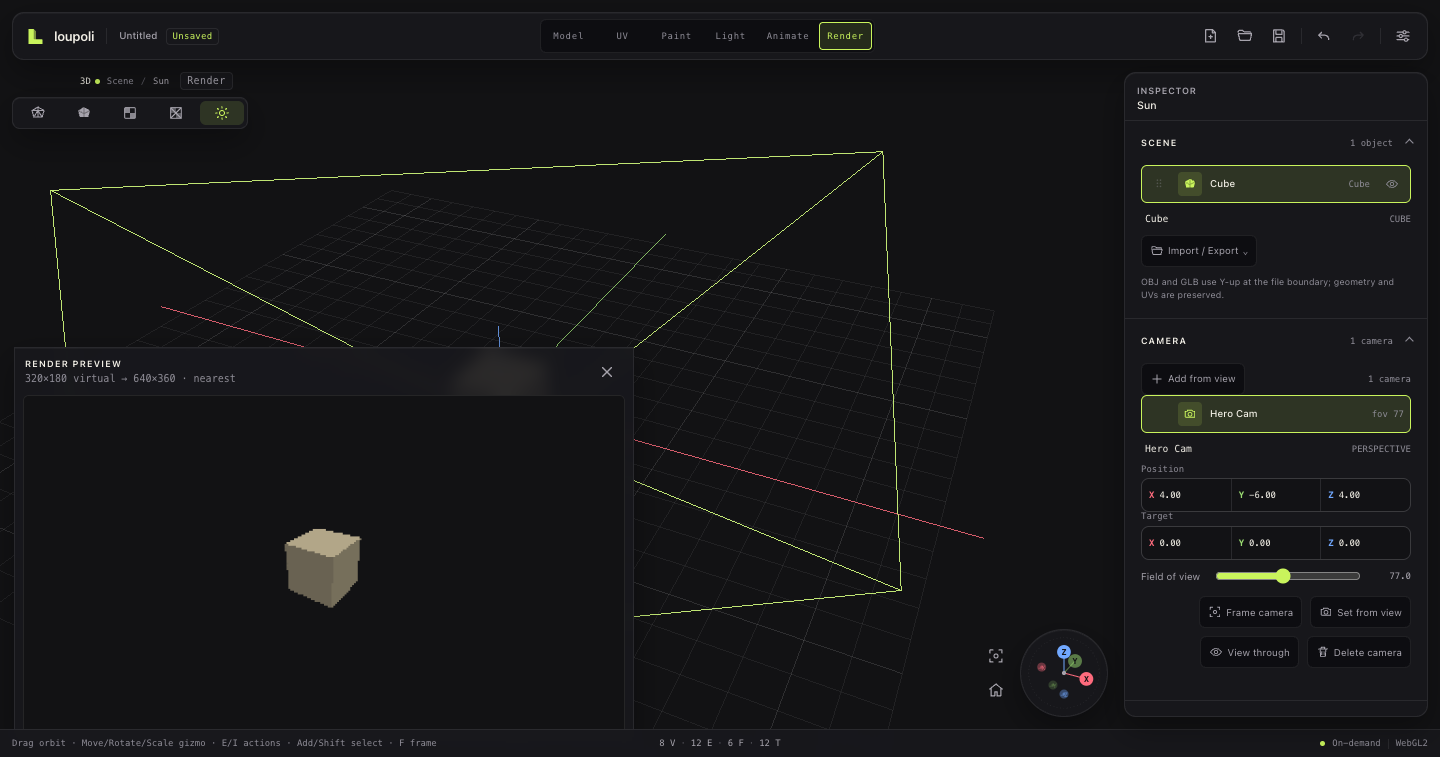
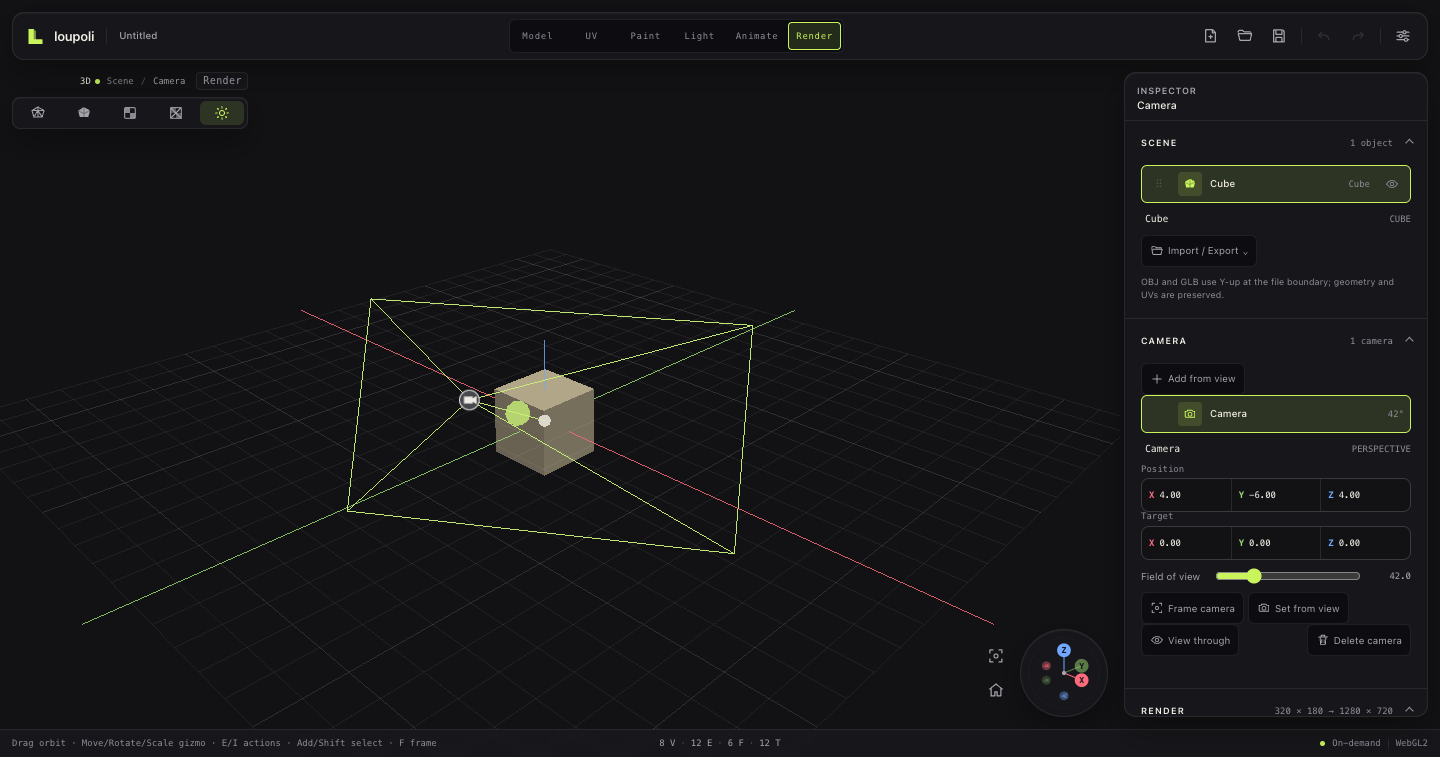
Polish camera and render inspector layout
Uses shared action rows with end alignment, groups camera navigation separately from destructive actions, removes duplicated camera/render metadata, and refreshes the camera/render documentation and screenshot.

diff --git a/src/lib/ui/Panels/Inspector.svelte b/src/lib/ui/Panels/Inspector.svelte
@@ -92,10 +92,6 @@
     if (videoMimeFor('mp4')) options.push({ value: 'mp4', label: 'MP4 video' });
     return options;
   });
-  const renderKindLabel = $derived(
-    renderKindOptions.find((option) => option.value === session.snapshot.renderKind)?.label ??
-      'Still PNG'
-  );
   const shapeKeys = $derived(session.snapshot.shapeKeys);
   const shapeEditingId = $derived(session.snapshot.shapeEditingId);
   const editingShapeName = $derived(
@@ -847,13 +843,12 @@
       onToggle={(open) => setSection('camera', open)}
     >
       <div class="module-body">
-        <ActionRow align="between">
+        <ActionRow>
           <ActionButton
             label="Add from view"
             icon="plus"
             onActivate={() => session.addCameraFromCurrentView()}
           />
-          <span class="texture-note">{cameras.length} {cameras.length === 1 ? 'camera' : 'cameras'}</span>
         </ActionRow>
         <div class="object-list">
           {#each cameras as camera (camera.id)}
@@ -872,7 +867,7 @@
                 <Icon name="camera" size={14} />
               </span>
               <span class="object-name">{camera.name}</span>
-              <span class="object-kind">fov {camera.fov.toFixed(0)}</span>
+              <span class="object-kind">{camera.fov.toFixed(0)}°</span>
             </OutlinerRow>
           {/each}
         </div>
@@ -922,6 +917,8 @@
               icon="camera"
               onActivate={() => session.setActiveCameraFromView()}
             />
+          </ActionRow>
+          <ActionRow align="between">
             <ActionButton
               label={session.snapshot.renderCameraView ? 'Exit view' : 'View through'}
               icon="eye"
@@ -948,10 +945,6 @@
       onToggle={(open) => setSection('render', open)}
     >
       <div class="module-body">
-        <div class="light-subhead">
-          <span>{renderKindLabel}</span>
-          <span class="texture-note">{session.snapshot.renderKind === 'still' ? 'PNG' : session.snapshot.renderKind.toUpperCase()}</span>
-        </div>
         <SelectField
           label="Output kind"
           value={session.snapshot.renderKind}
@@ -1082,7 +1075,7 @@
         {:else}
           <p class="texture-note">Add a camera from the Camera section before rendering.</p>
         {/if}
-        <div class="texture-action-row">
+        <ActionRow align="end">
           <ActionButton
             label="Preview"
             icon="eye"
@@ -1113,7 +1106,7 @@
               }
             }}
           />
-        </div>
+        </ActionRow>
       </div>
     </InspectorSection>
     {/snippet}

diff --git a/src/lib/ui/Primitives/ActionRow.svelte b/src/lib/ui/Primitives/ActionRow.svelte
@@ -3,13 +3,13 @@
 
   interface Props {
     children: Snippet;
-    align?: 'start' | 'between';
+    align?: 'start' | 'between' | 'end';
   }
 
   let { children, align = 'start' }: Props = $props();
 </script>
 
-<div class="action-row" class:between={align === 'between'}>
+<div class="action-row" class:between={align === 'between'} class:end={align === 'end'}>
   {@render children()}
 </div>
 
@@ -23,5 +23,9 @@
 
   .between {
     justify-content: space-between;
+  }
+
+  .end {
+    justify-content: flex-end;
   }
 </style>

diff --git a/README.md b/README.md
@@ -61,7 +61,7 @@ A low-poly, pen-first 3D modeling studio for iPad and desktop. Z-up, quad-centri
 - **Shape keys.** Per-node morph targets store absolute vertex positions and 0–1 weights, evaluate beneath the modifier stack, persist in `.lpoly` binary payloads, and import/export glTF morph targets. The Animate Inspector exposes selected-key add/edit/capture/weight/delete controls plus rename, visibility, and drag reordering; key creation and deletion live on the shape weight track in the timeline. Add a key, then either **Edit** its stored target live with the normal mesh tools and Finish, or edit the base and Capture it. Both paths restore the source base and leave the key editable; captured targets can also be keyed into linear/step weight tracks. Key transform records object/group transforms at a timeline frame; shape weights have their own linear/step tracks. The timeline shows an empty transform row for the active object and a row for every shape key, with + Key on each row, selected-key deletion/interpolation, draggable diamonds, adaptive ticks, and wheel/button zoom. Shape key rows support rename, visibility, and drag reordering. Topology replacement is blocked while keys exist. GLB morph import/export is implemented.
 - **Model interchange.** OBJ import/export preserves quads, n-gons, per-corner UVs, and simple per-face material colors; exports include an OBJ/MTL bundle. Binary GLB import converts triangle meshes to validated DCEL nodes and preserves UV seams; GLB export is triangulated with simple material colors. Both file boundaries use Y-up while the document stays Z-up. Imports are undoable batches. External OBJ MTL auto-loading, glTF textures, skins, and morph target import/export remain future work.
 - **Animation workspace.** Choose **Animate** after Light to key object/group transforms at integer frames. The bottom timeline has play/pause, scrubbing, track rows, and key diamonds; the Animation Inspector controls FPS, range, looping, interpolation, key insertion/deletion, and track selection. Playback uses an explicit scheduler only while playing, and preview poses stay separate from rest transforms. Animation is saved in `.lpoly`. Camera/light animation and shape keys are future work.
-- **Camera and Render workspace.** Project cameras are saved with transparent, named position/target/FOV data. Choose **Render** after Light to compose through the active camera, hide modeling chrome and the grid, and render a clean PNG at an explicit virtual resolution, upscaled to the output resolution with nearest or smooth filtering. The Render Inspector controls virtual/output size, upscaling, shading, transparency, and background, plus Frame camera, Set from view, View through/Exit view, and Preview. Cameras have their own outliner list with editable names and FOV. Render is a free camera-editing view with orbit/pan, a camera frustum and draggable body/target handles, plus a camera arrow. View through/Exit view temporarily looks through the render camera and hides its handles; orbit/pan/zoom returns to free editing. Render output is color-managed and excludes editor helpers. Preview upscales the virtual frame into a larger floating portal. Frame sequences and WebM/MP4 export are the next Render milestones. AO remains deferred.
+- **Camera and Render workspace.** Project cameras are saved with transparent, named position/target/FOV data. Choose **Render** after Light to compose through the active camera, hide modeling chrome and the grid, and render a clean PNG at an explicit virtual resolution, upscaled to the output resolution with nearest or smooth filtering. The Render Inspector controls virtual/output size, upscaling, shading, transparency, and background, plus Frame camera, Set from view, View through/Exit view, and Preview. Cameras have their own outliner list with editable names and FOV. Render is a free camera-editing view with orbit/pan, a camera frustum and draggable body/target handles, plus a camera arrow. View through/Exit view temporarily looks through the render camera and hides its handles; orbit/pan/zoom returns to free editing. Render output is color-managed and excludes editor helpers. The Camera inspector uses the shared camera list and exposes editable names, position, target, and FOV; View through/Exit view toggles the clean camera view and hides helpers. Preview upscales the virtual frame into a larger floating portal. Frame sequences and WebM/MP4 export are the next Render milestones. AO remains deferred.
 - **Texture assets and bindings.** A project-level texture library owns independent assets with 64–2048 presets, nearest/linear filtering, and up to eight layers each. Meshes bind to assets by stable ID, so several objects can share one low-poly atlas. The Inspector exposes a compact asset header with a shared inline name field, New/shared overflow actions, stateful assignment, filtering, alpha mode, a typed Add-layer menu, and a selected-layer properties panel. Layers can be solid, checker, transparent, or raster. Each asset has one composite `CanvasTexture`, and the renderer caches material variants per asset so shared textures upload once. Paint transactions keep committed pixels untouched until commit and store one localized undo rectangle. Layers carry color/detail/lighting roles for the future bake pipeline and save as binary PNG chunks in `.lpoly` v4; texture edits are captured by v4 autosave checkpoints. Layer rename and Normal/Multiply/Screen blend modes are implemented and persisted. Layers carry color/detail/lighting roles for the future bake pipeline. Imported images become fitted raster layers with preserved aspect ratio. Checker is a preview backdrop; transparent texels preserve composite alpha, and assets can render as Opaque, Cutout, or Blend in 3D. Raster layers stay authoritative through opacity/blend/rename undo and save as PNG chunks; a raster brush paints the active asset layer directly in the UV view, and Brush/Eraser projection-paint the active object's bound asset in 3D.
 
 ![Texture layer stack in the Inspector](docs/media/texture-layers.png)

diff --git a/docs/RENDER.md b/docs/RENDER.md
@@ -1,6 +1,6 @@
 # Render workspace and camera
 
-**Status:** Camera and render foundation implemented. Scene cameras, camera-driven preview, virtual/output resolution, nearest/smooth upscaling, PNG stills, deterministic PNG frame sequences, and WebM/MP4 recording where the WebView supports the codec are implemented.
+**Status:** Camera and render foundation implemented. Scene cameras, camera-driven preview, virtual/output resolution, nearest/smooth upscaling, color-managed PNG stills, deterministic PNG frame sequences, and WebM/MP4 recording where the WebView supports the codec are implemented.
 
 ## Contents
 
@@ -26,20 +26,17 @@ interface CameraSnapshot {
 ```
 
 - Cameras are saved in `.lpoly`.
-- The Camera Inspector lists cameras and exposes name, position, target, and field of view.
+- The Camera Inspector uses the shared outliner list, with editable camera names, position, target, and a field-of-view slider.
 - **Add from view** captures the current navigation camera.
-- The Render workspace can look through the active camera via **View through**, then return to free editing by orbiting. Editing the camera does not force the viewport back to the camera view.
-- The Render workspace is a free camera-editing view with orbit, pan, zoom, the orientation gizmo, and a camera marker/frustum. **View through** is a toggle: it enters the camera view and hides camera handles; orbiting, panning, or zooming leaves it, shows the handles again, and returns to free editing. **Frame camera** frames the camera for free editing. Drag the camera body to move it, drag the target/arrow handle to re-aim it, or use Camera Inspector actions: **Frame camera**, **Set from view**, and **View through**.
+- Editing the camera does not force the viewport back to the camera view. The Render workspace is a free camera-editing view with orbit, pan, zoom, the orientation gizmo, a camera marker/frustum, a camera list with editable names/FOV, and a larger render preview. **View through** is a toggle: it enters the camera view and hides camera handles; orbiting, panning, or zooming leaves it, shows the handles again, and returns to free editing. **Frame camera** frames the camera for free editing. Drag the camera body to move it, drag the target/arrow handle to re-aim it, or use Camera Inspector actions: **Frame camera**, **Set from view**, **View through/Exit view**, and **Delete camera** (last).
 - **Preview** renders the virtual-resolution frame, upscales it to the output size, and shows it in a floating preview portal before export.
 - Camera animation tracks will be added with the animation timeline.
 
 ## 2. Render workspace
 
-`Render` is a dedicated workspace after Light. It removes modeling chrome and the grid, leaving a camera-composition view.
+`Render` is a dedicated workspace after Light. It removes modeling chrome, keeping the grid only as a navigation aid in free camera editing; captures remain clean.
 
-![Render workspace](media/render-workspace.png)
-
-![Camera editing and render preview](media/render-workspace.png)
+![Camera editing and larger render preview](media/render-workspace.png)
 
 ![Upscaled render preview](media/render-preview.png)
 
@@ -54,7 +51,7 @@ The render path is separate from the interactive viewport state:
 
 - Clean scene: no grid, gizmos, selection overlays, handles, or light markers
 - Explicit `PerspectiveCamera` built from the document camera
-- Offscreen WebGL render target
+- Offscreen sRGB WebGL render target with camera/light/object helpers excluded
 - Still render through the active camera
 - The viewport is restored after rendering
 
@@ -86,7 +83,7 @@ The still path:
 5. Encode PNG.
 6. Save through the native dialog or browser download.
 
-Rendered focus shadows are baked by the renderer's current light state; baked lighting remains a static-texture result.
+Rendered focus shadows are baked by the renderer's current light state; baked lighting remains a static-texture result. The offscreen target is sRGB so PNG, sequence, and video colors match the editor preview path.
 
 ## 5. Video and sequences
 
@@ -94,6 +91,7 @@ Rendered focus shadows are baked by the renderer's current light state; baked li
 - **WebM:** uses `MediaRecorder` on a canvas capture and is enabled only when the WebView reports support.
 - **MP4:** also uses `MediaRecorder` when the WebView supports an MP4 codec; otherwise the UI omits it and points to WebM/frames. Native AVFoundation encoding remains the reliable path for iPad production.
 - Video rendering is real-time driven by the animation FPS; it is not a production-grade offline encoder yet.
+- PNG stills, sequences, WebM, and MP4 all use the same color-managed frame canvas.
 - The Frame range is explicit and separate from the animation range.
 
 ## 6. Next

diff --git a/docs/UI_RULES.md b/docs/UI_RULES.md
@@ -82,7 +82,7 @@ These are mandatory reuse rules. A new surface that duplicates one of these patt
 
 ### Outliner rows
 
-- Use `OutlinerRow` for scene objects, scene groups, and texture layers.
+- Use `OutlinerRow` for scene objects, scene groups, cameras, lights, and texture layers.
 - Drag slot is always left. Visibility is always right.
 - Keep a 2 px inner gutter inside the row border; the drag handle and eye must not sit flush against it.
 - Active row: accent border plus selected background.
@@ -93,7 +93,7 @@ These are mandatory reuse rules. A new surface that duplicates one of these patt
 
 ### Naming
 
-- Use `InlineNameField` for every editable name: scene objects, groups, texture assets, and texture layers.
+- Use `InlineNameField` for every editable name: scene objects, groups, cameras, lights, texture assets, and texture layers.
 - Naming lives in the selected-item header, not in a one-off dialog or a differently styled boxed field.
 - Enter commits, Escape restores, blur commits, and the same 64-character bound applies everywhere.
 - Rename commands are undoable and journaled.
@@ -112,11 +112,14 @@ These are mandatory reuse rules. A new surface that duplicates one of these patt
 | Texture assets | New, import/duplicate overflow | Assign/Unassign, filter, alpha | Delete texture in overflow |
 | Texture layers | Add layer | selection properties | Delete layer, last/right |
 | Animation | — | track + key in timeline | Delete key in timeline header, last/right |
+| Camera | Add from view above list | selected camera name/position/target/FOV and view actions below list | Delete camera last/right |
+| Render | — | output settings below header; Preview then Render in the final action row | — |
 | Shape keys | Add shape key | selected key: name, weight, Edit target, Capture base; rows support visibility and drag reorder | Delete shape key, last/right |
 
 - Timeline tracks own key creation: each row has a **+ Key** control. Key deletion lives in the timeline header or Delete/Backspace on a focused diamond. Diamonds can be dragged between integer frames.
 - Shape-key weight keys are timeline keys; the Shape keys Inspector does not duplicate Key/Unkey. Shape-key rows use the same outliner grouping, visibility, and drag-reorder behavior as scene objects and texture layers.
 - A more-actions (`ThreeDotMenu`) or overflow menu is always the last control in its action row.
+- Camera and Render use `ActionRow` rather than per-section button wrappers; primary/destructive actions sit last and right.
 - Timeline zoom uses minus/Fit/plus in the timeline header. Ruler ticks adapt to the visible range; wheel pans and Ctrl/Cmd+wheel zooms.
 - Labels name the noun: `Delete object`, `Delete layer`, `Delete texture`, `Delete shape key`, `Delete key`, `Delete elements`.
 - Destructive controls are neutral at rest and use `--accent-danger` on hover/focus. Overflow destructive items follow the same neutral/red-hover rule.
